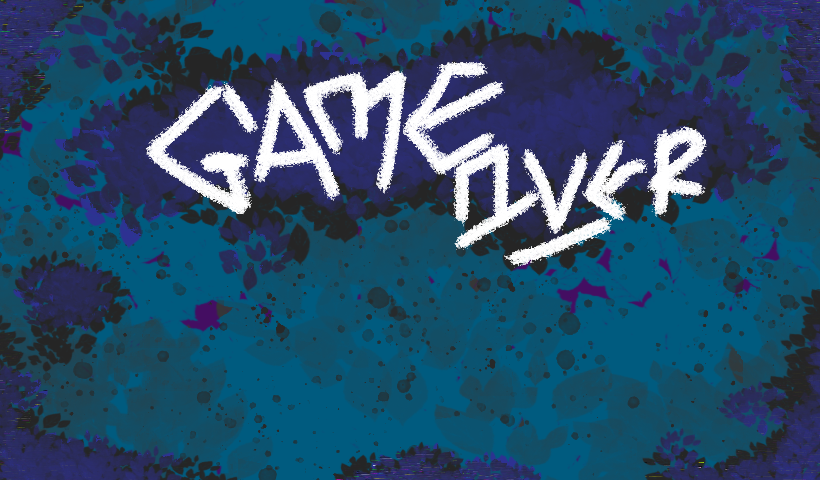
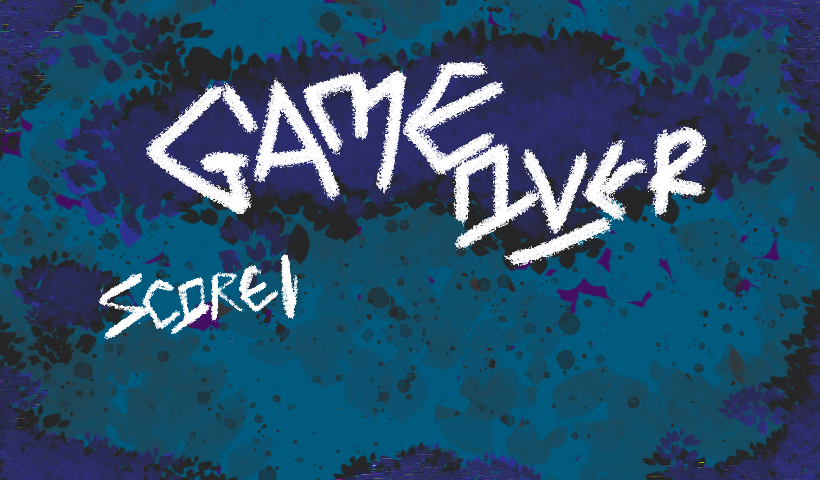
change menu bg

Changed region(s): [[0.122, 0.5312, 0.3659, 0.7188]]

diff --git a/ThearStory/src/Main/States/MenuInterFace.java b/ThearStory/src/Main/States/MenuInterFace.java
@@ -3,6 +3,7 @@ package Main.States;
 
 import Main.GamePanel;
 import Main.Graphics.Assets;
+import java.awt.Color;
 import java.awt.Graphics;
 
 public class MenuInterFace extends State {
@@ -36,6 +37,10 @@ public class MenuInterFace extends State {
         else{
             g.drawImage(Assets.letsGoButton2, 430, 330, null);
         }
+        
+        g.setColor(Color.WHITE);
+        g.setFont(Assets.gothicFont);
+        g.drawString("High Score " + RunMiniGame.score, 100, 350);
     }
     
 }

diff --git a/ThearStory/src/Main/States/RunMiniGame.java b/ThearStory/src/Main/States/RunMiniGame.java
@@ -27,7 +27,7 @@ public class RunMiniGame extends State{
     private Street street;
 
     // Game Value
-    private static int score;
+    public static int score;
     private int lastScore;
     private int speed = 6;
     private long lastTime;
